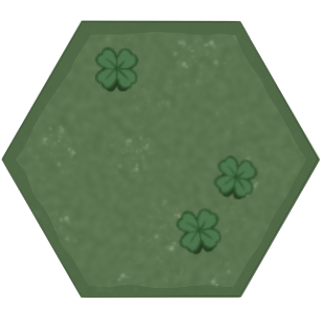
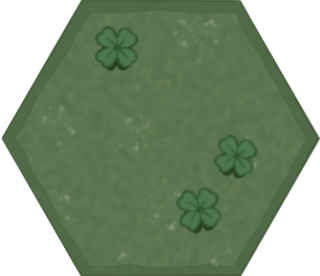
aaa

diff --git a/src/ui.rs b/src/ui.rs
@@ -165,7 +165,7 @@ fn render_tile_button(ui: &mut Ui, state: &mut GameState, base: BaseTileType, bu
         just_pressed || (pressed && is_investing_current)
       };
 
-      ui.element().contain(1.0)
+      ui.element().contain(13.0 / 15.0)
         .image(tile.icon())
         .children(|ui| {
           ui.element().width(fixed!(75.0)).height(fixed!(16.0))